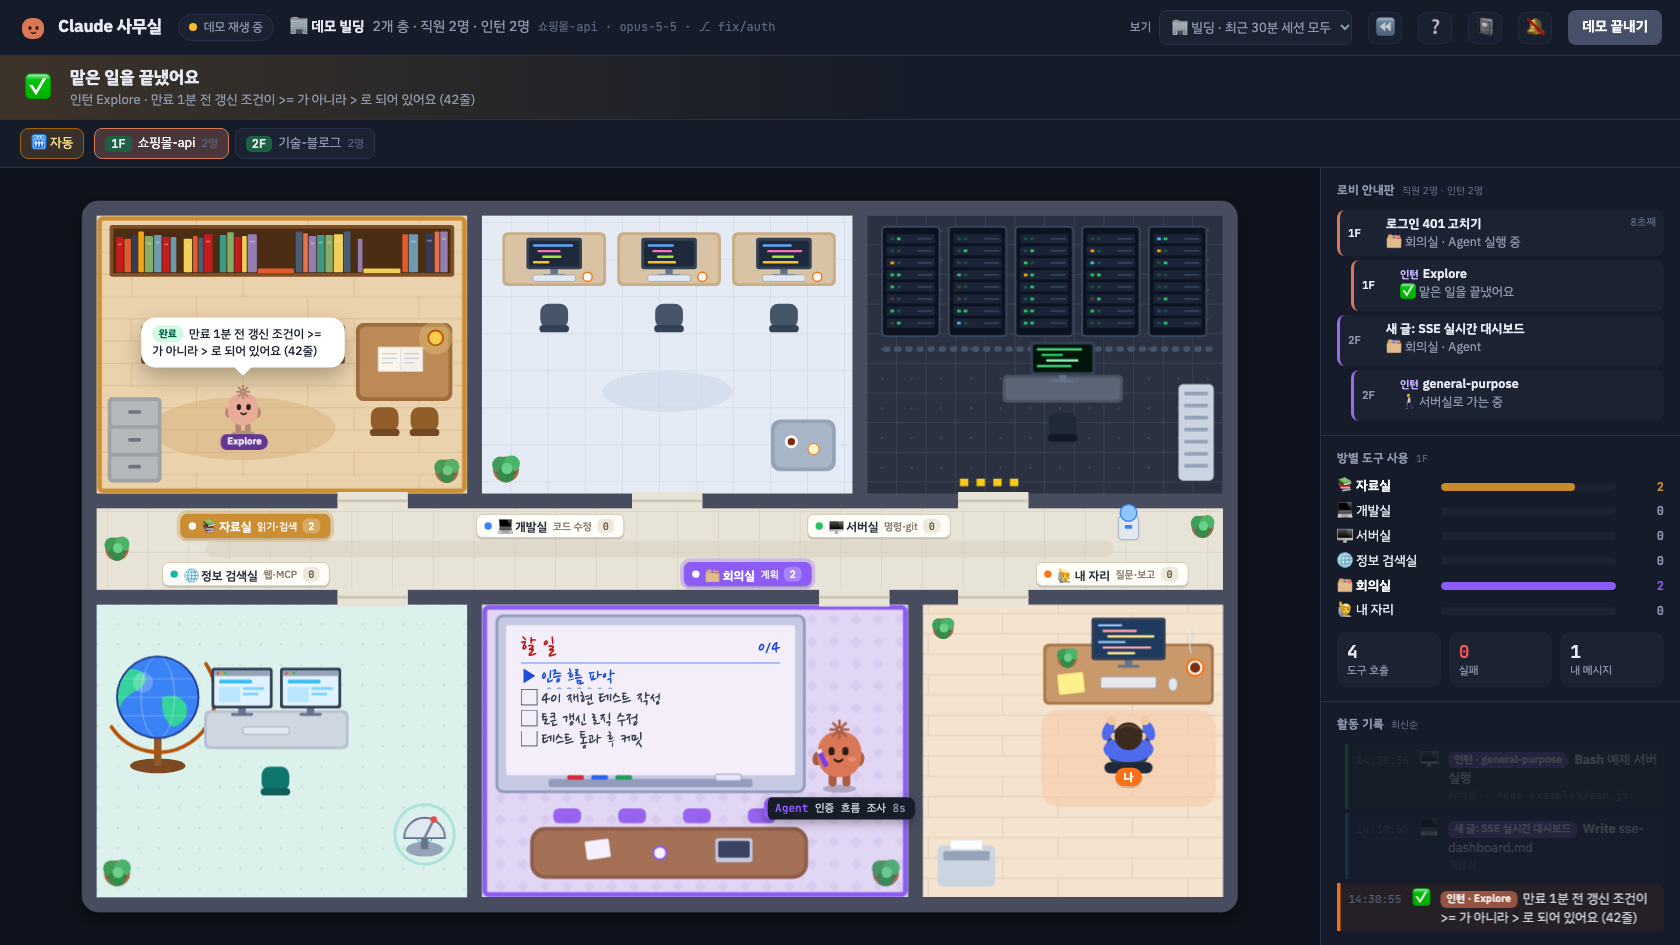
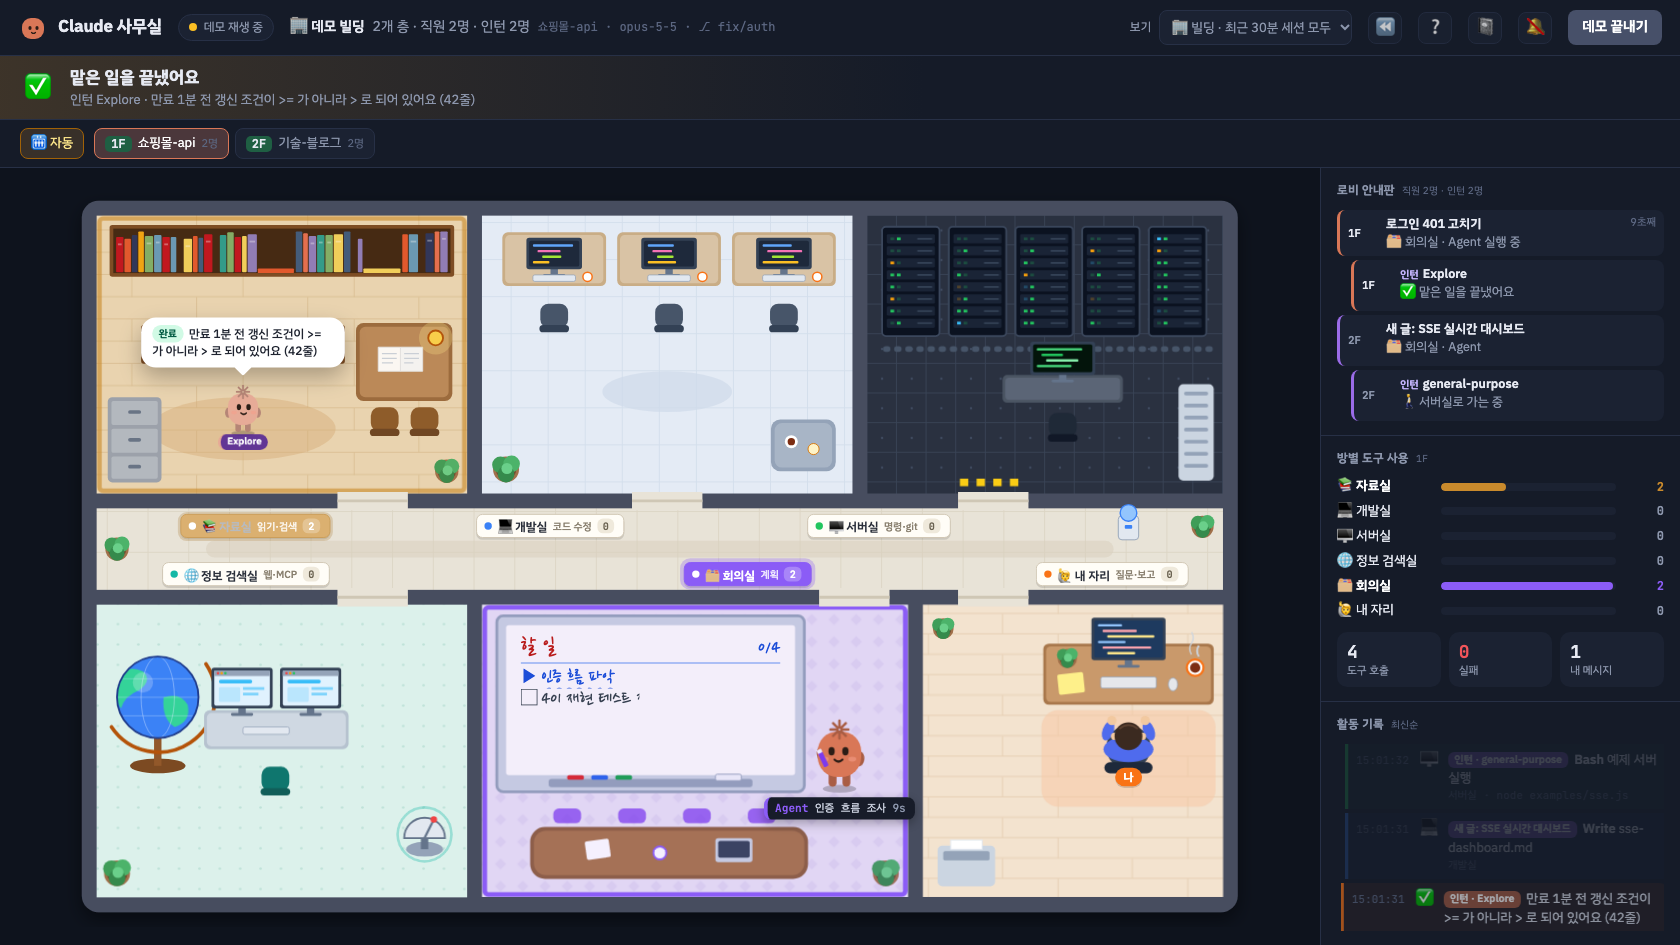
글꼴을 못 받아도 화면이 바로 떠요 (?nofonts도 생겼어요)
Google Fonts 글꼴을 <link rel=stylesheet>로 불러서, Google이 막혀 있거나 아주
느린 네트워크에서는 글꼴을 기다리느라 화면 자체가 늦게 떴어요.
이제 글꼴은 화면을 막지 않게 따로 불러와요. 못 받으면 기본 글꼴로 바로 뜨고,
받으면 바꿔 끼워요.

바깥 연결이 아예 싫다면 주소 뒤에 ?nofonts를 붙이면 Google Fonts에 연결하지
않아요. (확인: ?nofonts에서는 Google 요청 0개)

diff --git a/public/index.html b/public/index.html
@@ -5,9 +5,16 @@
 <meta name="viewport" content="width=device-width, initial-scale=1">
 <title>Claude 사무실</title>
 <link rel="icon" id="favicon" href="data:,">
-<link rel="preconnect" href="https://fonts.googleapis.com">
-<link rel="preconnect" href="https://fonts.gstatic.com" crossorigin>
-<link href="https://fonts.googleapis.com/css2?family=Gaegu:wght@400;700&family=IBM+Plex+Sans+KR:wght@400;500;600;700&family=JetBrains+Mono:wght@400;600&family=Nanum+Pen+Script&display=swap" rel="stylesheet">
+<script>
+  // 웹 글꼴은 화면을 막지 않게 따로 불러온다: 못 받아도 기본 글꼴로 바로 뜨고, 받으면 바꿔 끼운다.
+  // 주소에 ?nofonts를 붙이면 바깥(Google Fonts)에 아예 연결하지 않는다.
+  (function () {
+    if (/[?&]nofonts\b/.test(location.search)) return;
+    var add = function (attrs) { var l = document.createElement('link'); for (var k in attrs) l.setAttribute(k, attrs[k]); document.head.appendChild(l); };
+    add({ rel: 'preconnect', href: 'https://fonts.gstatic.com', crossorigin: '' });
+    add({ rel: 'stylesheet', href: 'https://fonts.googleapis.com/css2?family=Gaegu:wght@400;700&family=IBM+Plex+Sans+KR:wght@400;500;600;700&family=JetBrains+Mono:wght@400;600&family=Nanum+Pen+Script&display=swap' });
+  })();
+</script>
 <link rel="stylesheet" href="style.css">
 </head>
 <body>

diff --git a/README.md b/README.md
@@ -237,7 +237,7 @@ hooks는 권한 확인 창이 뜰 때만 아주 작은 스크립트(`hooks/notif
 아니요. Claude Code가 원래 남기는 기록 파일을 **내 컴퓨터에서 읽기만** 해요. Claude API를 부르지 않아서 요금이나 사용량 한도에 영향이 없어요. Claude Code 동작에도 끼어들지 않아요.
 
 **Q. 내 코드나 대화가 어딘가로 전송되나요?**
-아니요. 서버는 내 컴퓨터(`127.0.0.1`)에서만 열리고, 주소가 `localhost`·`127.0.0.1`인 요청만 받아서 다른 웹사이트가 몰래 읽어 갈 수도 없어요. hooks도 내 컴퓨터의 사무실 서버로만 알리고, 실행할 때마다 새로 만드는 비밀 토큰이 있어야 받아 줘요. 기록 내용은 밖으로 보내지 않아요. 화면을 열 때 브라우저가 Google Fonts에서 글꼴 파일만 내려받아요.
+아니요. 서버는 내 컴퓨터(`127.0.0.1`)에서만 열리고, 주소가 `localhost`·`127.0.0.1`인 요청만 받아서 다른 웹사이트가 몰래 읽어 갈 수도 없어요. hooks도 내 컴퓨터의 사무실 서버로만 알리고, 실행할 때마다 새로 만드는 비밀 토큰이 있어야 받아 줘요. 기록 내용은 밖으로 보내지 않아요. 화면을 열 때 브라우저가 Google Fonts에서 글꼴 파일만 내려받는데, 그것도 싫으면 주소 뒤에 `?nofonts`를 붙이세요(`http://localhost:4777/?nofonts`). 글꼴을 못 받아도 화면은 기본 글꼴로 바로 떠요.
 
 **Q. 인턴(서브에이전트)이 안 보여요.**
 Claude Code가 서브에이전트 기록을 `~/.claude/projects/<프로젝트>/<세션>/subagents/`에 따로 남기는 버전이어야 보여요. 오래된 버전은 이 기록이 없어서 메인 직원이 회의실에서 `Agent` 도구를 실행하는 모습만 보여요.
